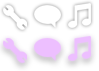
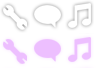
sp

diff --git a/css/style.css b/css/style.css
@@ -169,7 +169,7 @@ header {
     display: inline-block;
     vertical-align: middle;
     height: 2rem;
-    width: 1.8rem;
+    width: 1.9rem;
     margin-right: 2rem;
     background: url('../img/Layer 34.png') 0 0 no-repeat;
 }
@@ -195,14 +195,17 @@ header {
 }
 
 .our_company_one h3:hover:before {
+    transition:0.1s;
     background-position: 0 -33px;
 }
 
 .our_company_two h3:hover:before{
+    transition:0.1s;
     background-position: -32px -33px;
 }
 
 .our_company_three h3:hover:before{
+    transition:0.1s;
     background-position: -65px -33px;
 }
 
